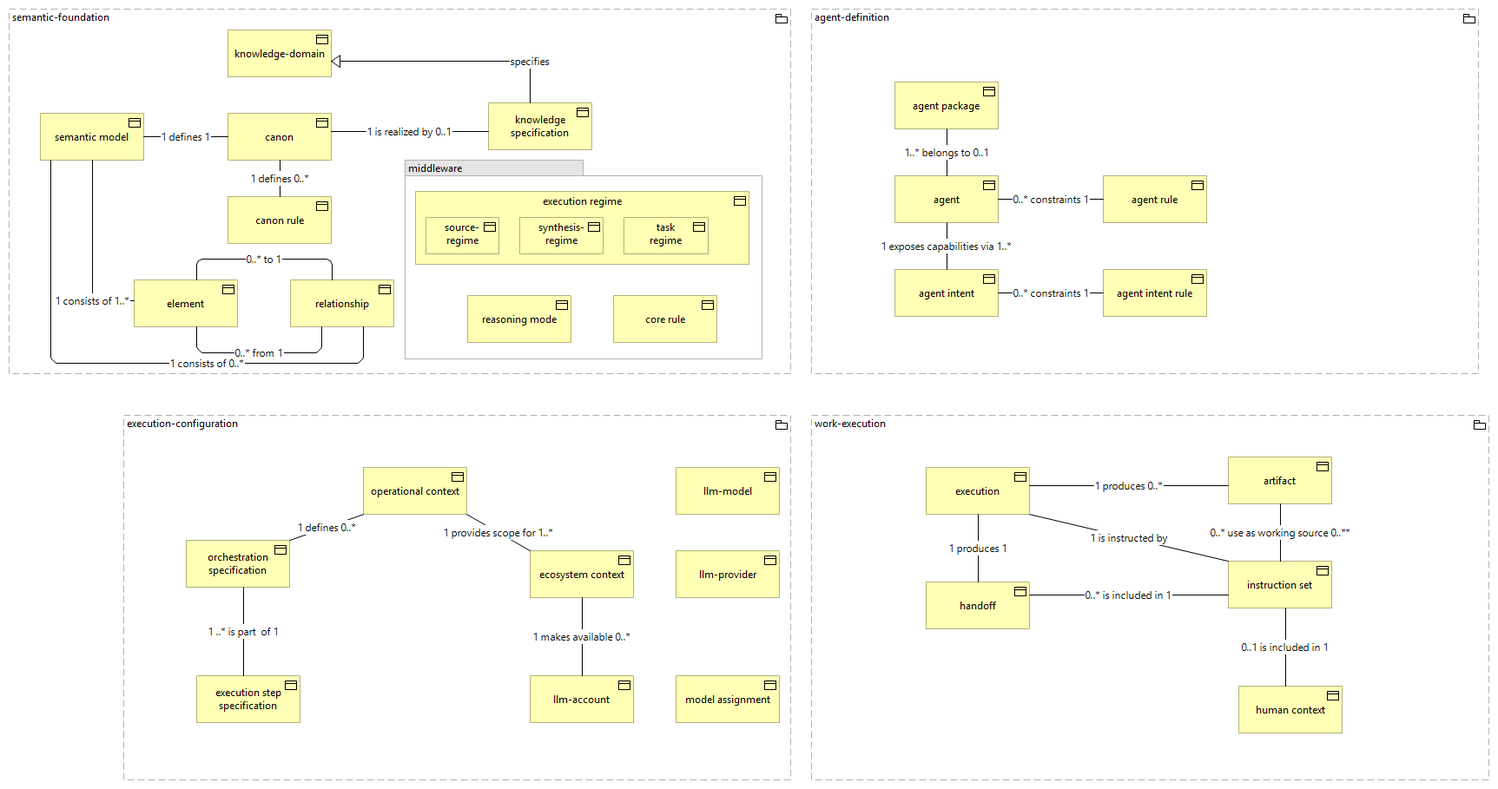
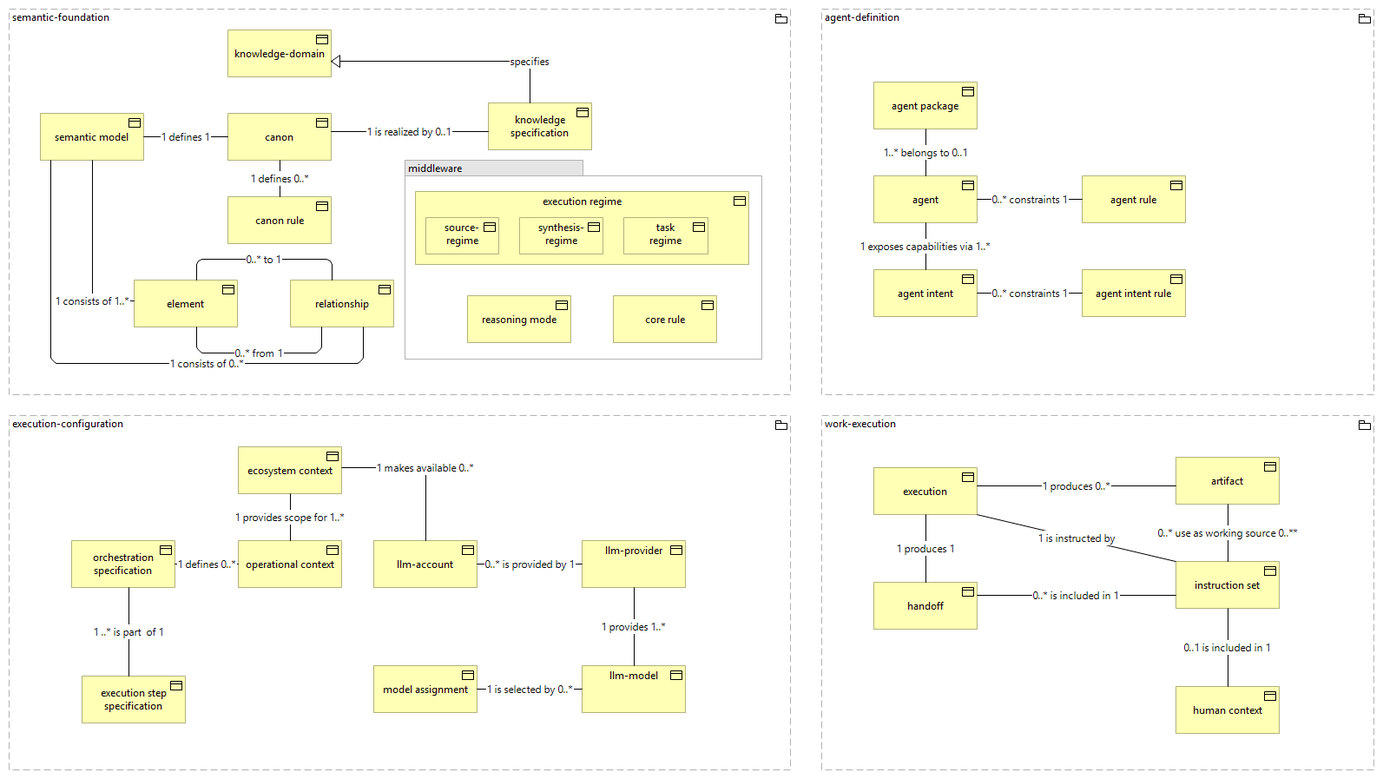
verbeter lay-out views

diff --git a/doc/views/id-fca85b9eb275498c905415549bb8efb2/views/id-cbd780d82d40493fa36ca540fd74bf41.html b/doc/views/id-fca85b9eb275498c905415549bb8efb2/views/id-cbd780d82d40493fa36ca540fd74bf41.html
@@ -33,30 +33,30 @@
 		    <!-- If this is a digram model (has children and no bounds) show the image -->
 			   <img class="diagram" src="../images/id-cbd780d82d40493fa36ca540fd74bf41.png" alt="logical-instances-bedrijfsobjecten" usemap="#id-cbd780d82d40493fa36ca540fd74bf41map"/>
 			   <map name="id-cbd780d82d40493fa36ca540fd74bf41map">
-				  				<area shape="rect" coords="1414,526,1534,581" href="../elements/id-4e0f720907c34ad186ec8a6958817d41.html"  target="element">
-				  				<area shape="rect" coords="1066,538,1186,593" href="../elements/id-2e8c595bfedb4d8ba8cedbdf2eb284f2.html"  target="element">
-				  				<area shape="rect" coords="1414,646,1534,701" href="../elements/id-a4319ee116ab41dda18d476242ca88da.html"  target="element">
-				  				<area shape="rect" coords="1426,790,1546,845" href="../elements/id-7970b9b7176341039f2e4af29e4d2d3a.html"  target="element">
-				  				<area shape="rect" coords="1066,670,1186,725" href="../elements/id-4215cbb5ea2e4b41bf3966ed673a5740.html"  target="element">
+				  				<area shape="rect" coords="1354,526,1474,581" href="../elements/id-4e0f720907c34ad186ec8a6958817d41.html"  target="element">
+				  				<area shape="rect" coords="1006,538,1126,593" href="../elements/id-2e8c595bfedb4d8ba8cedbdf2eb284f2.html"  target="element">
+				  				<area shape="rect" coords="1354,646,1474,701" href="../elements/id-a4319ee116ab41dda18d476242ca88da.html"  target="element">
+				  				<area shape="rect" coords="1354,790,1474,845" href="../elements/id-7970b9b7176341039f2e4af29e4d2d3a.html"  target="element">
+				  				<area shape="rect" coords="1006,670,1126,725" href="../elements/id-4215cbb5ea2e4b41bf3966ed673a5740.html"  target="element">
 
-				  		<area shape="rect" coords="934,478,1715,899" href="../elements/id-bcfa69ae40094ba780197b67f2a9adc5.html"  target="element">
-				  				<area shape="rect" coords="778,538,898,593" href="../elements/id-47c7669317cf4b9aaec0c64751602214.html"  target="element">
-				  				<area shape="rect" coords="778,634,898,689" href="../elements/id-9c36c275b1bc4801a5e76a6db8a16571.html"  target="element">
-				  				<area shape="rect" coords="778,778,898,833" href="../elements/id-3208e79172454362b69c0661b8e55589.html"  target="element">
-				  				<area shape="rect" coords="418,538,538,593" href="../elements/id-94e213279a1d46149da17c04c0572efe.html"  target="element">
-				  				<area shape="rect" coords="214,622,334,677" href="../elements/id-0a67e6f41ebb45b9b7a3fc306bc08cd1.html"  target="element">
-				  				<area shape="rect" coords="610,778,730,833" href="../elements/id-abdf3fc1a9504d1eb988ab196a0ecf67.html"  target="element">
-				  				<area shape="rect" coords="226,778,346,833" href="../elements/id-95a0e0e6f3e1431da1195ba095f3435d.html"  target="element">
-				  				<area shape="rect" coords="610,634,730,689" href="../elements/id-a99dcf9067d84b2b9ddf4b7a8f40c647.html"  target="element">
+				  		<area shape="rect" coords="946,478,1583,887" href="../elements/id-bcfa69ae40094ba780197b67f2a9adc5.html"  target="element">
+				  				<area shape="rect" coords="670,622,790,677" href="../elements/id-9c36c275b1bc4801a5e76a6db8a16571.html"  target="element">
+				  				<area shape="rect" coords="670,766,790,821" href="../elements/id-47c7669317cf4b9aaec0c64751602214.html"  target="element">
+				  				<area shape="rect" coords="430,766,550,821" href="../elements/id-3208e79172454362b69c0661b8e55589.html"  target="element">
+				  				<area shape="rect" coords="274,622,394,677" href="../elements/id-94e213279a1d46149da17c04c0572efe.html"  target="element">
+				  				<area shape="rect" coords="82,622,202,677" href="../elements/id-0a67e6f41ebb45b9b7a3fc306bc08cd1.html"  target="element">
+				  				<area shape="rect" coords="430,622,550,677" href="../elements/id-abdf3fc1a9504d1eb988ab196a0ecf67.html"  target="element">
+				  				<area shape="rect" coords="94,778,214,833" href="../elements/id-95a0e0e6f3e1431da1195ba095f3435d.html"  target="element">
+				  				<area shape="rect" coords="274,514,394,569" href="../elements/id-a99dcf9067d84b2b9ddf4b7a8f40c647.html"  target="element">
 
-				  		<area shape="rect" coords="142,478,911,899" href="../elements/id-64f19a334e974108b93f342c683cf1d5.html"  target="element">
-				  				<area shape="rect" coords="1270,202,1390,257" href="../elements/id-9dd7d63f3bda44a6919074aa6bd45c04.html"  target="element">
-				  				<area shape="rect" coords="1030,94,1150,149" href="../elements/id-a5736e6c7c874d5589622b6158eae9ee.html"  target="element">
-				  				<area shape="rect" coords="1270,310,1390,365" href="../elements/id-7c826e60007f41aeaaddbcb4fc50958d.html"  target="element">
-				  				<area shape="rect" coords="1030,310,1150,365" href="../elements/id-fc519c97c3c04fb3b43a50b72f0aef38.html"  target="element">
-				  				<area shape="rect" coords="1030,202,1150,257" href="../elements/id-a21ac844b75946b0b94ab3450c81ed27.html"  target="element">
+				  		<area shape="rect" coords="10,478,911,887" href="../elements/id-64f19a334e974108b93f342c683cf1d5.html"  target="element">
+				  				<area shape="rect" coords="1246,202,1366,257" href="../elements/id-9dd7d63f3bda44a6919074aa6bd45c04.html"  target="element">
+				  				<area shape="rect" coords="1006,94,1126,149" href="../elements/id-a5736e6c7c874d5589622b6158eae9ee.html"  target="element">
+				  				<area shape="rect" coords="1246,310,1366,365" href="../elements/id-7c826e60007f41aeaaddbcb4fc50958d.html"  target="element">
+				  				<area shape="rect" coords="1006,310,1126,365" href="../elements/id-fc519c97c3c04fb3b43a50b72f0aef38.html"  target="element">
+				  				<area shape="rect" coords="1006,202,1126,257" href="../elements/id-a21ac844b75946b0b94ab3450c81ed27.html"  target="element">
 
-				  		<area shape="rect" coords="934,10,1703,431" href="../elements/id-1102502d3ae0409784523400c4fbe5dc.html"  target="element">
+				  		<area shape="rect" coords="946,10,1583,455" href="../elements/id-1102502d3ae0409784523400c4fbe5dc.html"  target="element">
 				  				<area shape="rect" coords="46,130,166,185" href="../elements/id-1fa6202fbcb84810a487e731d399058b.html"  target="element">
 				  				<area shape="rect" coords="154,322,274,377" href="../elements/id-a248b6e4d5a04c6c995cc9ecb4872d2e.html"  target="element">
 				  				<area shape="rect" coords="334,322,454,377" href="../elements/id-9c775a49c62f4d49a90673446cec6a64.html"  target="element">
@@ -76,7 +76,7 @@
 				  				<area shape="rect" coords="262,226,382,281" href="../elements/id-03e98ce0196345b599d814c30d4a986a.html"  target="element">
 				  				<area shape="rect" coords="262,130,382,185" href="../elements/id-6d66d6cdd2534270b0f3732e4ecec8cc.html"  target="element">
 
-				  		<area shape="rect" coords="10,10,911,431" href="../elements/id-0f80755c4e134fe4aa43acca7aa28927.html"  target="element">
+				  		<area shape="rect" coords="10,10,911,455" href="../elements/id-0f80755c4e134fe4aa43acca7aa28927.html"  target="element">
 
 			   </map>
 
@@ -332,14 +332,14 @@
 													</tr>
 
 													<tr>
-													    <td> <a href="../elements/id-9c36c275b1bc4801a5e76a6db8a16571.html" target="element"> llm-provider </a> </td>
-													    <td> <a href="../elements/id-9c36c275b1bc4801a5e76a6db8a16571.html" target="element" class="i18n-elementtype-BusinessObject">
+													    <td> <a href="../elements/id-47c7669317cf4b9aaec0c64751602214.html" target="element"> llm-model </a> </td>
+													    <td> <a href="../elements/id-47c7669317cf4b9aaec0c64751602214.html" target="element" class="i18n-elementtype-BusinessObject">
 													    </a> </td>
 													</tr>
 
 													<tr>
-													    <td> <a href="../elements/id-47c7669317cf4b9aaec0c64751602214.html" target="element"> llm-model </a> </td>
-													    <td> <a href="../elements/id-47c7669317cf4b9aaec0c64751602214.html" target="element" class="i18n-elementtype-BusinessObject">
+													    <td> <a href="../elements/id-9c36c275b1bc4801a5e76a6db8a16571.html" target="element"> llm-provider </a> </td>
+													    <td> <a href="../elements/id-9c36c275b1bc4801a5e76a6db8a16571.html" target="element" class="i18n-elementtype-BusinessObject">
 													    </a> </td>
 													</tr>
 
@@ -661,18 +661,18 @@
 																		<td> <a href="../elements/id-3208e79172454362b69c0661b8e55589.html" target="element"> model assignment </a> </td>
 																	</tr>
 																	<tr>
-																		<td> <a href="../elements/id-a4a4a4a4b5b5b5b5c6c6c6c6d7d7d7d7.html" target="element">  </a> </td>
-																		<td> <a href="../elements/id-a4a4a4a4b5b5b5b5c6c6c6c6d7d7d7d7.html" target="element" class="i18n-elementtype-CompositionRelationship">
-																		</a> </td>
-																		<td> <a href="../elements/id-64f19a334e974108b93f342c683cf1d5.html" target="element"> execution-configuration </a> </td>
-																		<td> <a href="../elements/id-9c36c275b1bc4801a5e76a6db8a16571.html" target="element"> llm-provider </a> </td>
-																	</tr>
-																	<tr>
 																		<td> <a href="../elements/id-a5a5a5a5b6b6b6b6c7c7c7c7d8d8d8d8.html" target="element">  </a> </td>
 																		<td> <a href="../elements/id-a5a5a5a5b6b6b6b6c7c7c7c7d8d8d8d8.html" target="element" class="i18n-elementtype-CompositionRelationship">
 																		</a> </td>
 																		<td> <a href="../elements/id-64f19a334e974108b93f342c683cf1d5.html" target="element"> execution-configuration </a> </td>
 																		<td> <a href="../elements/id-47c7669317cf4b9aaec0c64751602214.html" target="element"> llm-model </a> </td>
+																	</tr>
+																	<tr>
+																		<td> <a href="../elements/id-a4a4a4a4b5b5b5b5c6c6c6c6d7d7d7d7.html" target="element">  </a> </td>
+																		<td> <a href="../elements/id-a4a4a4a4b5b5b5b5c6c6c6c6d7d7d7d7.html" target="element" class="i18n-elementtype-CompositionRelationship">
+																		</a> </td>
+																		<td> <a href="../elements/id-64f19a334e974108b93f342c683cf1d5.html" target="element"> execution-configuration </a> </td>
+																		<td> <a href="../elements/id-9c36c275b1bc4801a5e76a6db8a16571.html" target="element"> llm-provider </a> </td>
 																	</tr>
 
 																			<tr>
@@ -704,6 +704,29 @@
 																				</a> </td>
 																				<td> <a href="../elements/id-94e213279a1d46149da17c04c0572efe.html" target="element"> operational context </a> </td>
 																				<td> <a href="../elements/id-0a67e6f41ebb45b9b7a3fc306bc08cd1.html" target="element"> orchestration specification </a> </td>
+																			</tr>
+
+																			<tr>
+																				<td> <a href="../elements/id-d3e81c1dcc624b7ab204c64934bd57e3.html" target="element"> 1 is selected by 0..* </a> </td>
+																				<td> <a href="../elements/id-d3e81c1dcc624b7ab204c64934bd57e3.html" target="element" class="i18n-elementtype-AssociationRelationship">
+																				</a> </td>
+																				<td> <a href="../elements/id-47c7669317cf4b9aaec0c64751602214.html" target="element"> llm-model </a> </td>
+																				<td> <a href="../elements/id-3208e79172454362b69c0661b8e55589.html" target="element"> model assignment </a> </td>
+																			</tr>
+																			<tr>
+																				<td> <a href="../elements/id-242ceeeae34a4b5a9c58ce05cda70aa1.html" target="element">  1 provides 1..* </a> </td>
+																				<td> <a href="../elements/id-242ceeeae34a4b5a9c58ce05cda70aa1.html" target="element" class="i18n-elementtype-AssociationRelationship">
+																				</a> </td>
+																				<td> <a href="../elements/id-47c7669317cf4b9aaec0c64751602214.html" target="element"> llm-model </a> </td>
+																				<td> <a href="../elements/id-9c36c275b1bc4801a5e76a6db8a16571.html" target="element"> llm-provider </a> </td>
+																			</tr>
+
+																			<tr>
+																				<td> <a href="../elements/id-5245ef5310b847a099cd0f8be3dfd18d.html" target="element"> 0..* is provided by 1 </a> </td>
+																				<td> <a href="../elements/id-5245ef5310b847a099cd0f8be3dfd18d.html" target="element" class="i18n-elementtype-AssociationRelationship">
+																				</a> </td>
+																				<td> <a href="../elements/id-9c36c275b1bc4801a5e76a6db8a16571.html" target="element"> llm-provider </a> </td>
+																				<td> <a href="../elements/id-abdf3fc1a9504d1eb988ab196a0ecf67.html" target="element"> llm-account </a> </td>
 																			</tr>
 
 											

diff --git a/doc/views/id-fca85b9eb275498c905415549bb8efb2/elements/model.html b/doc/views/id-fca85b9eb275498c905415549bb8efb2/elements/model.html
@@ -2414,8 +2414,8 @@
 															dataViewsContent.push({viewid:"id-cbd780d82d40493fa36ca540fd74bf41", contentid:"id-0a67e6f41ebb45b9b7a3fc306bc08cd1", contenttype:"BusinessObject"});
 															dataViewsContent.push({viewid:"id-cbd780d82d40493fa36ca540fd74bf41", contentid:"id-94e213279a1d46149da17c04c0572efe", contenttype:"BusinessObject"});
 															dataViewsContent.push({viewid:"id-cbd780d82d40493fa36ca540fd74bf41", contentid:"id-3208e79172454362b69c0661b8e55589", contenttype:"BusinessObject"});
-															dataViewsContent.push({viewid:"id-cbd780d82d40493fa36ca540fd74bf41", contentid:"id-9c36c275b1bc4801a5e76a6db8a16571", contenttype:"BusinessObject"});
 															dataViewsContent.push({viewid:"id-cbd780d82d40493fa36ca540fd74bf41", contentid:"id-47c7669317cf4b9aaec0c64751602214", contenttype:"BusinessObject"});
+															dataViewsContent.push({viewid:"id-cbd780d82d40493fa36ca540fd74bf41", contentid:"id-9c36c275b1bc4801a5e76a6db8a16571", contenttype:"BusinessObject"});
 													
 													dataViewsContent.push({viewid:"id-cbd780d82d40493fa36ca540fd74bf41", contentid:"id-bcfa69ae40094ba780197b67f2a9adc5", contenttype:"Grouping"});
 															dataViewsContent.push({viewid:"id-cbd780d82d40493fa36ca540fd74bf41", contentid:"id-4215cbb5ea2e4b41bf3966ed673a5740", contenttype:"BusinessObject"});
@@ -2478,8 +2478,8 @@
 																			dataViewsContent.push({viewid:"id-cbd780d82d40493fa36ca540fd74bf41", contentid:"id-ccbb3dbc019a44fa914c40fc9542eab9", contenttype:"CompositionRelationship"});
 																			dataViewsContent.push({viewid:"id-cbd780d82d40493fa36ca540fd74bf41", contentid:"id-13c438946b84429ea35564d3a602194d", contenttype:"CompositionRelationship"});
 																			dataViewsContent.push({viewid:"id-cbd780d82d40493fa36ca540fd74bf41", contentid:"id-a3a3a3a3b4b4b4b4c5c5c5c5d6d6d6d6", contenttype:"CompositionRelationship"});
-																			dataViewsContent.push({viewid:"id-cbd780d82d40493fa36ca540fd74bf41", contentid:"id-a4a4a4a4b5b5b5b5c6c6c6c6d7d7d7d7", contenttype:"CompositionRelationship"});
 																			dataViewsContent.push({viewid:"id-cbd780d82d40493fa36ca540fd74bf41", contentid:"id-a5a5a5a5b6b6b6b6c7c7c7c7d8d8d8d8", contenttype:"CompositionRelationship"});
+																			dataViewsContent.push({viewid:"id-cbd780d82d40493fa36ca540fd74bf41", contentid:"id-a4a4a4a4b5b5b5b5c6c6c6c6d7d7d7d7", contenttype:"CompositionRelationship"});
 
 																					dataViewsContent.push({viewid:"id-cbd780d82d40493fa36ca540fd74bf41", contentid:"id-9b38a34b372d42bc806dde4f867eb05f", contenttype:"AssociationRelationship"});
 																					dataViewsContent.push({viewid:"id-cbd780d82d40493fa36ca540fd74bf41", contentid:"id-71d01ab060014200848c2fc9f8e01748", contenttype:"AssociationRelationship"});
@@ -2487,6 +2487,11 @@
 																					dataViewsContent.push({viewid:"id-cbd780d82d40493fa36ca540fd74bf41", contentid:"id-2eb3594f56934a6bbc5c450280a7fce6", contenttype:"AssociationRelationship"});
 
 																					dataViewsContent.push({viewid:"id-cbd780d82d40493fa36ca540fd74bf41", contentid:"id-b9f7a77a44a6474a89b4cb8daf8addb8", contenttype:"AssociationRelationship"});
+
+																					dataViewsContent.push({viewid:"id-cbd780d82d40493fa36ca540fd74bf41", contentid:"id-d3e81c1dcc624b7ab204c64934bd57e3", contenttype:"AssociationRelationship"});
+																					dataViewsContent.push({viewid:"id-cbd780d82d40493fa36ca540fd74bf41", contentid:"id-242ceeeae34a4b5a9c58ce05cda70aa1", contenttype:"AssociationRelationship"});
+
+																					dataViewsContent.push({viewid:"id-cbd780d82d40493fa36ca540fd74bf41", contentid:"id-5245ef5310b847a099cd0f8be3dfd18d", contenttype:"AssociationRelationship"});
 
 													
 																			dataViewsContent.push({viewid:"id-cbd780d82d40493fa36ca540fd74bf41", contentid:"id-e1c7688c7d634b71a6c6fb1ee29b44dc", contenttype:"CompositionRelationship"});

diff --git a/doc/views/id-fca85b9eb275498c905415549bb8efb2/elements/id-64f19a334e974108b93f342c683cf1d5.html b/doc/views/id-fca85b9eb275498c905415549bb8efb2/elements/id-64f19a334e974108b93f342c683cf1d5.html
@@ -138,16 +138,6 @@
 											<td><a href="../elements/id-64f19a334e974108b93f342c683cf1d5.html" target="element"> execution-configuration</a></td>
 											<td><a href="../elements/id-3208e79172454362b69c0661b8e55589.html" target="element"> model assignment</a></td>
 										</tr><tr>
-											<td><a href="../elements/id-a4a4a4a4b5b5b5b5c6c6c6c6d7d7d7d7.html" target="element" title=""></a></td>
-											<td><span class="i18n-elementtype-CompositionRelationship" /></td>
-											<td><a href="../elements/id-64f19a334e974108b93f342c683cf1d5.html" target="element"> execution-configuration</a></td>
-											<td><a href="../elements/id-9c36c275b1bc4801a5e76a6db8a16571.html" target="element"> llm-provider</a></td>
-										</tr><tr>
-											<td><a href="../elements/id-a5a5a5a5b6b6b6b6c7c7c7c7d8d8d8d8.html" target="element" title=""></a></td>
-											<td><span class="i18n-elementtype-CompositionRelationship" /></td>
-											<td><a href="../elements/id-64f19a334e974108b93f342c683cf1d5.html" target="element"> execution-configuration</a></td>
-											<td><a href="../elements/id-47c7669317cf4b9aaec0c64751602214.html" target="element"> llm-model</a></td>
-										</tr><tr>
 											<td><a href="../elements/id-9f88bc542cb74951b220974e802db44b.html" target="element" title=""></a></td>
 											<td><span class="i18n-elementtype-CompositionRelationship" /></td>
 											<td><a href="../elements/id-64f19a334e974108b93f342c683cf1d5.html" target="element"> execution-configuration</a></td>
@@ -157,6 +147,16 @@
 											<td><span class="i18n-elementtype-CompositionRelationship" /></td>
 											<td><a href="../elements/id-64f19a334e974108b93f342c683cf1d5.html" target="element"> execution-configuration</a></td>
 											<td><a href="../elements/id-5060c24e58624848bceb791c958a2e54.html" target="element"> toewijzen model </a></td>
+										</tr><tr>
+											<td><a href="../elements/id-a5a5a5a5b6b6b6b6c7c7c7c7d8d8d8d8.html" target="element" title=""></a></td>
+											<td><span class="i18n-elementtype-CompositionRelationship" /></td>
+											<td><a href="../elements/id-64f19a334e974108b93f342c683cf1d5.html" target="element"> execution-configuration</a></td>
+											<td><a href="../elements/id-47c7669317cf4b9aaec0c64751602214.html" target="element"> llm-model</a></td>
+										</tr><tr>
+											<td><a href="../elements/id-a4a4a4a4b5b5b5b5c6c6c6c6d7d7d7d7.html" target="element" title=""></a></td>
+											<td><span class="i18n-elementtype-CompositionRelationship" /></td>
+											<td><a href="../elements/id-64f19a334e974108b93f342c683cf1d5.html" target="element"> execution-configuration</a></td>
+											<td><a href="../elements/id-9c36c275b1bc4801a5e76a6db8a16571.html" target="element"> llm-provider</a></td>
 										</tr>
 							</tbody>
 						</table>

diff --git a/doc/views/id-fca85b9eb275498c905415549bb8efb2/elements/id-47c7669317cf4b9aaec0c64751602214.html b/doc/views/id-fca85b9eb275498c905415549bb8efb2/elements/id-47c7669317cf4b9aaec0c64751602214.html
@@ -92,11 +92,11 @@ Voorbeelden:
 								</tr>
 							</thead>
 							<tbody>
-								<tr id="used-in-views-id-cbd780d82d40493fa36ca540fd74bf41">
-																	<td><a href="../views/id-cbd780d82d40493fa36ca540fd74bf41.html" target="view" title="logical-instances-bedrijfsobjecten"> logical-instances-bedrijfsobjecten </a></td>
-																	<td><span class="i18n-viewpoint-" /></td>
-																</tr><tr id="used-in-views-id-e370b29df1904e7aa3dff365806a402d">
+								<tr id="used-in-views-id-e370b29df1904e7aa3dff365806a402d">
 																	<td><a href="../views/id-e370b29df1904e7aa3dff365806a402d.html" target="view" title="entoli-conceptual"> entoli-conceptual </a></td>
+																	<td><span class="i18n-viewpoint-" /></td>
+																</tr><tr id="used-in-views-id-cbd780d82d40493fa36ca540fd74bf41">
+																	<td><a href="../views/id-cbd780d82d40493fa36ca540fd74bf41.html" target="view" title="logical-instances-bedrijfsobjecten"> logical-instances-bedrijfsobjecten </a></td>
 																	<td><span class="i18n-viewpoint-" /></td>
 																</tr>
 							</tbody>
@@ -113,15 +113,15 @@ Voorbeelden:
 							</thead>
 							<tbody>
 									<tr>
-											<td><a href="../elements/id-242ceeeae34a4b5a9c58ce05cda70aa1.html" target="element" title=" 1 provides 1..*"> 1 provides 1..*</a></td>
-											<td><span class="i18n-elementtype-AssociationRelationship" /></td>
-											<td><a href="../elements/id-47c7669317cf4b9aaec0c64751602214.html" target="element"> llm-model</a></td>
-											<td><a href="../elements/id-9c36c275b1bc4801a5e76a6db8a16571.html" target="element"> llm-provider</a></td>
-										</tr><tr>
 											<td><a href="../elements/id-d3e81c1dcc624b7ab204c64934bd57e3.html" target="element" title="1 is selected by 0..*">1 is selected by 0..*</a></td>
 											<td><span class="i18n-elementtype-AssociationRelationship" /></td>
 											<td><a href="../elements/id-47c7669317cf4b9aaec0c64751602214.html" target="element"> llm-model</a></td>
 											<td><a href="../elements/id-3208e79172454362b69c0661b8e55589.html" target="element"> model assignment</a></td>
+										</tr><tr>
+											<td><a href="../elements/id-242ceeeae34a4b5a9c58ce05cda70aa1.html" target="element" title=" 1 provides 1..*"> 1 provides 1..*</a></td>
+											<td><span class="i18n-elementtype-AssociationRelationship" /></td>
+											<td><a href="../elements/id-47c7669317cf4b9aaec0c64751602214.html" target="element"> llm-model</a></td>
+											<td><a href="../elements/id-9c36c275b1bc4801a5e76a6db8a16571.html" target="element"> llm-provider</a></td>
 										</tr>
 									<tr>
 											<td><a href="../elements/id-b76275b6ae1f4fc2a5c6bac72a247b3b.html" target="element" title=""></a></td>

diff --git a/doc/views/id-fca85b9eb275498c905415549bb8efb2/elements/id-3208e79172454362b69c0661b8e55589.html b/doc/views/id-fca85b9eb275498c905415549bb8efb2/elements/id-3208e79172454362b69c0661b8e55589.html
@@ -135,11 +135,6 @@ Voorbeelden:
 											<td><a href="../elements/id-2e25dc5832d04ffb907846209ef549b7.html" target="element"> development phase</a></td>
 											<td><a href="../elements/id-3208e79172454362b69c0661b8e55589.html" target="element"> model assignment</a></td>
 										</tr><tr>
-											<td><a href="../elements/id-d3e81c1dcc624b7ab204c64934bd57e3.html" target="element" title="1 is selected by 0..*">1 is selected by 0..*</a></td>
-											<td><span class="i18n-elementtype-AssociationRelationship" /></td>
-											<td><a href="../elements/id-47c7669317cf4b9aaec0c64751602214.html" target="element"> llm-model</a></td>
-											<td><a href="../elements/id-3208e79172454362b69c0661b8e55589.html" target="element"> model assignment</a></td>
-										</tr><tr>
 											<td><a href="../elements/id-604ad10b0d05477d92723a64e79ad511.html" target="element" title=""></a></td>
 											<td><span class="i18n-elementtype-AssociationRelationship" /></td>
 											<td><a href="../elements/id-abdf3fc1a9504d1eb988ab196a0ecf67.html" target="element"> llm-account</a></td>
@@ -148,6 +143,11 @@ Voorbeelden:
 											<td><a href="../elements/id-a3a3a3a3b4b4b4b4c5c5c5c5d6d6d6d6.html" target="element" title=""></a></td>
 											<td><span class="i18n-elementtype-CompositionRelationship" /></td>
 											<td><a href="../elements/id-64f19a334e974108b93f342c683cf1d5.html" target="element"> execution-configuration</a></td>
+											<td><a href="../elements/id-3208e79172454362b69c0661b8e55589.html" target="element"> model assignment</a></td>
+										</tr><tr>
+											<td><a href="../elements/id-d3e81c1dcc624b7ab204c64934bd57e3.html" target="element" title="1 is selected by 0..*">1 is selected by 0..*</a></td>
+											<td><span class="i18n-elementtype-AssociationRelationship" /></td>
+											<td><a href="../elements/id-47c7669317cf4b9aaec0c64751602214.html" target="element"> llm-model</a></td>
 											<td><a href="../elements/id-3208e79172454362b69c0661b8e55589.html" target="element"> model assignment</a></td>
 										</tr>
 							</tbody>

diff --git a/doc/views/id-fca85b9eb275498c905415549bb8efb2/elements/id-abdf3fc1a9504d1eb988ab196a0ecf67.html b/doc/views/id-fca85b9eb275498c905415549bb8efb2/elements/id-abdf3fc1a9504d1eb988ab196a0ecf67.html
@@ -125,11 +125,6 @@ Voorbeelden:
 											<td><a href="../elements/id-9c36c275b1bc4801a5e76a6db8a16571.html" target="element"> llm-provider</a></td>
 										</tr>
 									<tr>
-											<td><a href="../elements/id-5245ef5310b847a099cd0f8be3dfd18d.html" target="element" title="0..* is provided by 1">0..* is provided by 1</a></td>
-											<td><span class="i18n-elementtype-AssociationRelationship" /></td>
-											<td><a href="../elements/id-9c36c275b1bc4801a5e76a6db8a16571.html" target="element"> llm-provider</a></td>
-											<td><a href="../elements/id-abdf3fc1a9504d1eb988ab196a0ecf67.html" target="element"> llm-account</a></td>
-										</tr><tr>
 											<td><a href="../elements/id-9b38a34b372d42bc806dde4f867eb05f.html" target="element" title="1 makes available 0..*">1 makes available 0..*</a></td>
 											<td><span class="i18n-elementtype-AssociationRelationship" /></td>
 											<td><a href="../elements/id-a99dcf9067d84b2b9ddf4b7a8f40c647.html" target="element"> ecosystem context</a></td>
@@ -138,6 +133,11 @@ Voorbeelden:
 											<td><a href="../elements/id-c7408d700a1f458c98999a750837ca54.html" target="element" title=""></a></td>
 											<td><span class="i18n-elementtype-CompositionRelationship" /></td>
 											<td><a href="../elements/id-64f19a334e974108b93f342c683cf1d5.html" target="element"> execution-configuration</a></td>
+											<td><a href="../elements/id-abdf3fc1a9504d1eb988ab196a0ecf67.html" target="element"> llm-account</a></td>
+										</tr><tr>
+											<td><a href="../elements/id-5245ef5310b847a099cd0f8be3dfd18d.html" target="element" title="0..* is provided by 1">0..* is provided by 1</a></td>
+											<td><span class="i18n-elementtype-AssociationRelationship" /></td>
+											<td><a href="../elements/id-9c36c275b1bc4801a5e76a6db8a16571.html" target="element"> llm-provider</a></td>
 											<td><a href="../elements/id-abdf3fc1a9504d1eb988ab196a0ecf67.html" target="element"> llm-account</a></td>
 										</tr>
 							</tbody>

diff --git a/doc/views/id-fca85b9eb275498c905415549bb8efb2/elements/id-9c36c275b1bc4801a5e76a6db8a16571.html b/doc/views/id-fca85b9eb275498c905415549bb8efb2/elements/id-9c36c275b1bc4801a5e76a6db8a16571.html
@@ -130,14 +130,14 @@ Voorbeelden:
 											<td><a href="../elements/id-47c7669317cf4b9aaec0c64751602214.html" target="element"> llm-model</a></td>
 											<td><a href="../elements/id-9c36c275b1bc4801a5e76a6db8a16571.html" target="element"> llm-provider</a></td>
 										</tr><tr>
-											<td><a href="../elements/id-1c3ea4cabce4418db1d7edc85a960290.html" target="element" title=""></a></td>
-											<td><span class="i18n-elementtype-AssociationRelationship" /></td>
-											<td><a href="../elements/id-abdf3fc1a9504d1eb988ab196a0ecf67.html" target="element"> llm-account</a></td>
-											<td><a href="../elements/id-9c36c275b1bc4801a5e76a6db8a16571.html" target="element"> llm-provider</a></td>
-										</tr><tr>
 											<td><a href="../elements/id-a4a4a4a4b5b5b5b5c6c6c6c6d7d7d7d7.html" target="element" title=""></a></td>
 											<td><span class="i18n-elementtype-CompositionRelationship" /></td>
 											<td><a href="../elements/id-64f19a334e974108b93f342c683cf1d5.html" target="element"> execution-configuration</a></td>
+											<td><a href="../elements/id-9c36c275b1bc4801a5e76a6db8a16571.html" target="element"> llm-provider</a></td>
+										</tr><tr>
+											<td><a href="../elements/id-1c3ea4cabce4418db1d7edc85a960290.html" target="element" title=""></a></td>
+											<td><span class="i18n-elementtype-AssociationRelationship" /></td>
+											<td><a href="../elements/id-abdf3fc1a9504d1eb988ab196a0ecf67.html" target="element"> llm-account</a></td>
 											<td><a href="../elements/id-9c36c275b1bc4801a5e76a6db8a16571.html" target="element"> llm-provider</a></td>
 										</tr>
 							</tbody>

diff --git a/doc/views/id-fca85b9eb275498c905415549bb8efb2/elements/id-d3e81c1dcc624b7ab204c64934bd57e3.html b/doc/views/id-fca85b9eb275498c905415549bb8efb2/elements/id-d3e81c1dcc624b7ab204c64934bd57e3.html
@@ -84,7 +84,10 @@
 								</tr>
 							</thead>
 							<tbody>
-								<tr id="used-in-views-id-e370b29df1904e7aa3dff365806a402d">
+								<tr id="used-in-views-id-cbd780d82d40493fa36ca540fd74bf41">
+																	<td><a href="../views/id-cbd780d82d40493fa36ca540fd74bf41.html" target="view" title="logical-instances-bedrijfsobjecten"> logical-instances-bedrijfsobjecten </a></td>
+																	<td><span class="i18n-viewpoint-" /></td>
+																</tr><tr id="used-in-views-id-e370b29df1904e7aa3dff365806a402d">
 																	<td><a href="../views/id-e370b29df1904e7aa3dff365806a402d.html" target="view" title="entoli-conceptual"> entoli-conceptual </a></td>
 																	<td><span class="i18n-viewpoint-" /></td>
 																</tr>

diff --git a/doc/views/id-fca85b9eb275498c905415549bb8efb2/elements/id-242ceeeae34a4b5a9c58ce05cda70aa1.html b/doc/views/id-fca85b9eb275498c905415549bb8efb2/elements/id-242ceeeae34a4b5a9c58ce05cda70aa1.html
@@ -87,6 +87,9 @@
 								<tr id="used-in-views-id-e370b29df1904e7aa3dff365806a402d">
 																	<td><a href="../views/id-e370b29df1904e7aa3dff365806a402d.html" target="view" title="entoli-conceptual"> entoli-conceptual </a></td>
 																	<td><span class="i18n-viewpoint-" /></td>
+																</tr><tr id="used-in-views-id-cbd780d82d40493fa36ca540fd74bf41">
+																	<td><a href="../views/id-cbd780d82d40493fa36ca540fd74bf41.html" target="view" title="logical-instances-bedrijfsobjecten"> logical-instances-bedrijfsobjecten </a></td>
+																	<td><span class="i18n-viewpoint-" /></td>
 																</tr>
 							</tbody>
 						</table>

diff --git a/doc/views/id-fca85b9eb275498c905415549bb8efb2/elements/id-5245ef5310b847a099cd0f8be3dfd18d.html b/doc/views/id-fca85b9eb275498c905415549bb8efb2/elements/id-5245ef5310b847a099cd0f8be3dfd18d.html
@@ -87,6 +87,9 @@
 								<tr id="used-in-views-id-e370b29df1904e7aa3dff365806a402d">
 																	<td><a href="../views/id-e370b29df1904e7aa3dff365806a402d.html" target="view" title="entoli-conceptual"> entoli-conceptual </a></td>
 																	<td><span class="i18n-viewpoint-" /></td>
+																</tr><tr id="used-in-views-id-cbd780d82d40493fa36ca540fd74bf41">
+																	<td><a href="../views/id-cbd780d82d40493fa36ca540fd74bf41.html" target="view" title="logical-instances-bedrijfsobjecten"> logical-instances-bedrijfsobjecten </a></td>
+																	<td><span class="i18n-viewpoint-" /></td>
 																</tr>
 							</tbody>
 						</table>
